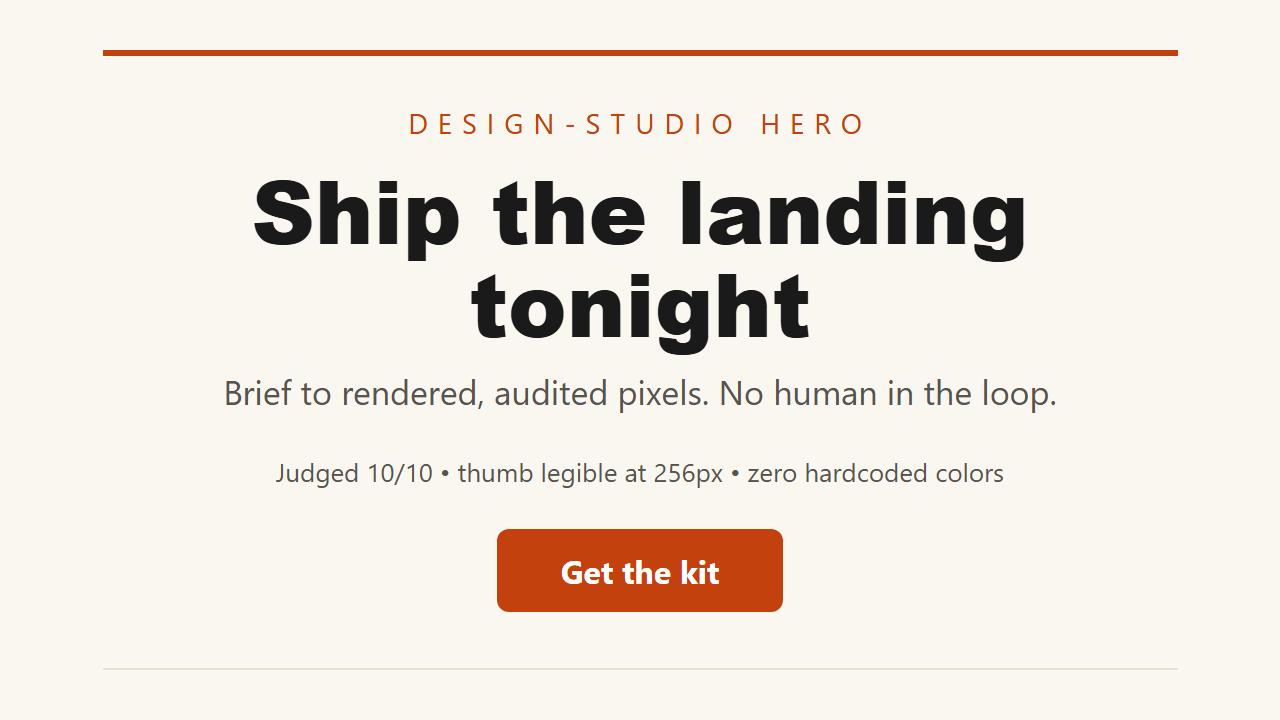
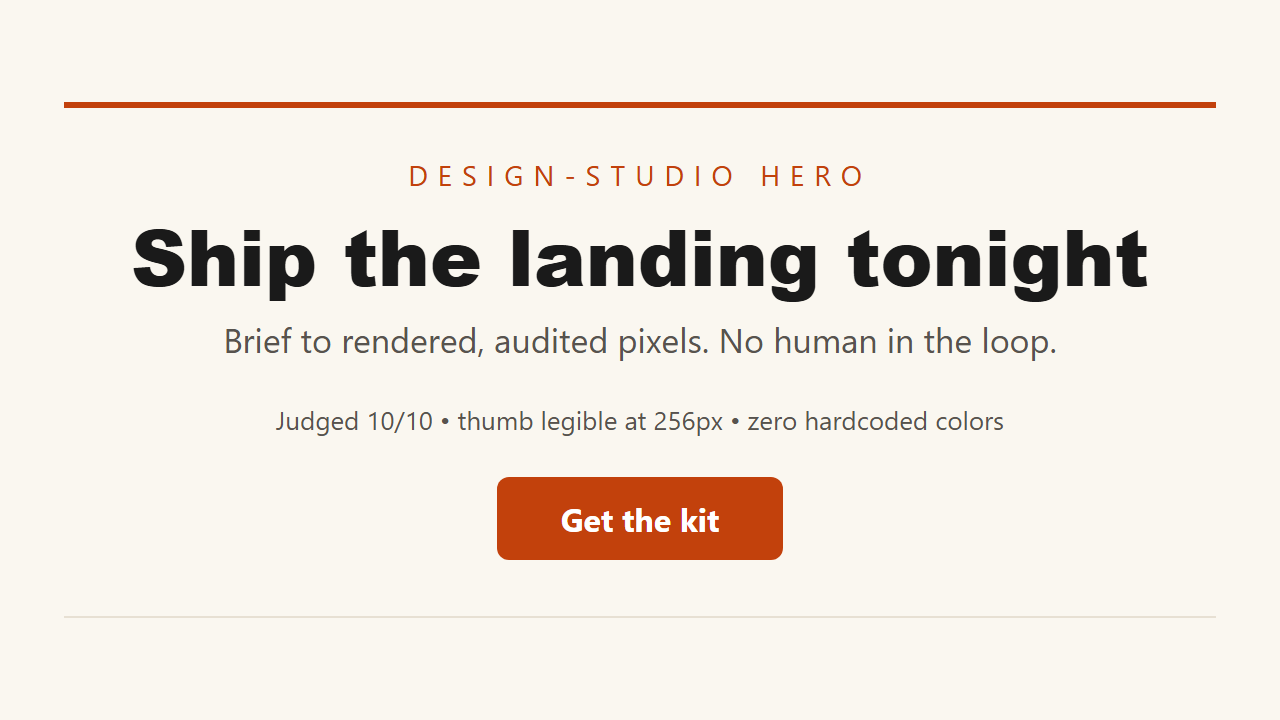
design-studio: round 11 lands 026/027 PASS plus 028 hero plus DS-33/25/26 builds [skip ci]
026/027 PASS: DS-05/21/30 DONE. Hero 10/10 all 3 sizes. Tokens fixpoint 16/16, hints 0 net new. Brief re-swept held 50pct. DS-19 card. node tools/check.mjs -> RESULT PASS.

diff --git a/samples/ads/hero/page.html b/samples/ads/hero/page.html
@@ -19,13 +19,13 @@
     display: flex; align-items: center; justify-content: center;
   }
   .hero {
-    width: 1075px; text-align: center;
+    width: 1152px; max-width: 90%; text-align: center;
     border-block-start: 6px solid var(--accent);
     border-block-end: 2px solid var(--line);
     padding: 48px 24px 56px;
   }
   .kicker { font-size: 28px; letter-spacing: 10px; color: var(--accent); font-family: var(--font-body); margin-block-end: 22px; }
-  h1 { font-family: var(--font-display); font-size: 88px; line-height: 1.05; color: var(--ink); margin-block-end: 20px; }
+  h1 { font-family: var(--font-display); font-size: 78px; font-size: clamp(60px, 6.1vw, 78px); line-height: 1.05; color: var(--ink); margin-block-end: 20px; }
   .sub { font-size: 34px; color: var(--muted); margin-block-end: 40px; }
   .proof { font-size: 26px; color: var(--muted); margin-block-end: 40px; }
   .cta { display: inline-block; font-size: 32px; font-weight: bold; color: var(--on-accent); background: var(--accent); padding: 20px 64px; border-radius: 12px; text-decoration: none; }

diff --git a/sprint/board.md b/sprint/board.md
@@ -13,10 +13,10 @@ names its commit SHA. Each row names the Scorecard row of `VISION.md` it moves.
 | DS-02 | DONE | Brand-kit consistency | tokens-01: tokens.json to tokens.css plus docs page, no hardcoded colors | `node tools/tokens.mjs --check` PASS (built in this row) | builder | c37eced: TOKENS PASS 16/16, judge 004 PASS 2026-10-02 |
 | DS-03 | DONE | Landing-page conversion | registry-01: shadcn-pattern block registry, 10 landing blocks | `node tools/registry.mjs --check` PASS (built in this row) | builder | 9300c54: REGISTRY PASS 10 blocks plus 4 templates, judge 021 PASS 2026-10-02 |
 | DS-04 | DONE | Judged quality | agent-01: screenshot-to-code loop clone, MIT harness only | `node tools/agent-shot.mjs --check` PASS (built in this row) | builder | 360bbd1: AGENT-SHOT PASS 11/11, judge 006 PASS 2026-10-02 |
-| DS-05 | DOING | Judged quality | agent-02: prompt-to-block loop with judge gate | `node tools/agent-block.mjs --check` PASS (built in this row) | builder | NOT-BUILT 2026-10-02 r9 stub replaced round 10: real prompt-to-block loop, AGENT-BLOCK PASS 15/15, tests 7/7, judge review queued round 11 |
+| DS-05 | DONE | Judged quality | agent-02: prompt-to-block loop with judge gate | `node tools/agent-block.mjs --check` PASS (built in this row) | builder | 4512bec: AGENT-BLOCK PASS 15/15 tests 7/7, judge 026 PASS 2026-10-02 |
 | DS-06 | DONE | Judged quality | rubric judge v1: ds-quality-v1, 10 checks, DESIGN-REVIEW.md writer | `node tools/judge.mjs --check` PASS (built in this row) | builder | b995450: repaired 010, judge 012 PASS 2026-10-02 (10/10, tests 6/6, review byte-stable) |
 | DS-07 | DONE | Thumbnail readability | workshop-01: story per block plus 256px visual diff | `node tools/workshop.mjs --check` PASS (built in this row) | builder | dcc2d73: WORKSHOP PASS 4 stories, judge 016 PASS 2026-10-02 |
-| DS-08 | READY | Landing-page conversion | figma-01: code-connect mapping plus Figma MCP read seat | `node tools/figma.mjs --check` PASS (built in this row) | builder | NOT-BUILT 2026-10-02 r10: tools/figma.mjs prints NOT-BUILT DS-08 stub (no PASS yet, re-verified); FOCUS r10 Landing 0% with DS-25 plus DS-26 READY and DS-24/29 DOING (023/024/025 queued): code-connect mapping plus Figma MCP read seat, no dupe for queued/in-flight DS-05/21/30 |
+| DS-08 | READY | Landing-page conversion | figma-01: code-connect mapping plus Figma-file read (NO MCP path) — baseline NOT-BUILT stub prints NOT-BUILT; metric mapping table + file-drop Figma JSON fixture, no network | F2P: `node tools/figma.mjs --check` with mapping fixture FAIL today; P2P: `node tools/figma.mjs --check` FIGMA PASS (built in this row) | builder | r11 planner: NO Figma MCP path — opencode.jsonc mcp is github+deepwiki+arxiv only, list_mcp_resources is github only; closest runnable alternative is file-drop Figma JSON + code-connect mapping table (no network), still gated by same --check; FOCUS r11 Landing 0% with DS-25 plus DS-26 READY and DS-24/29 DONE, no dupe for queued/in-flight DS-05/21/30, 026/027, 028, DS-25/26/33 |
 | DS-09 | DONE | Thumbnail readability | canvas-01: Konva template editor, 5 templates | `node tools/canvas.mjs --check` PASS (built in this row) | builder | dcc2d73: CANVAS PASS 5 templates, judge 016 PASS 2026-10-02 |
 | DS-10 | DONE | Brand-kit consistency | brand-01: name to palette, type, voice, lockup plus tokens export | `node tools/brandkit.mjs --check` PASS (built in this row) | builder | 9300c54: BRANDKIT PASS studio kit, judge 021 PASS 2026-10-02 |
 | DS-11 | DONE | Game UI kits | game-ui-01: HUD, menu, button kit on Kenney CC0 plus Lucide ISC | `node tools/game-ui.mjs --check` PASS (built in this row) | builder | 360bbd1: GAME-UI PASS 30/30, serve 34/34, judge 007 PASS 2026-10-02 |
@@ -27,20 +27,20 @@ names its commit SHA. Each row names the Scorecard row of `VISION.md` it moves.
 | DS-16 | DONE | Hebrew RTL | rtl-01: Hebrew type pairing plus logical properties plus audit RTL gate | `node tools/audit.mjs --rtl --check` PASS (built in this row) | builder | b995450: AUDIT RTL PASS 10/10, judge 013 PASS 2026-10-02 |
 | DS-17 | DONE | Landing-page conversion | conversion harness: two landing variants plus click plan | `node tools/convert.mjs --check` PASS (built in this row) | builder | dcc2d73: CONVERT PASS A/B plus plan, judge 016 PASS 2026-10-02 |
 | DS-18 | DONE | Brand-kit consistency | taste library v1 from od-taste: 20 exemplars with tokens | `node tools/taste.mjs --check` PASS (built in this row) | builder | 9300c54: TASTE PASS 20 exemplars, judge 021 PASS 2026-10-02 |
-| DS-19 | READY | Judged quality | weekly donor sweep: licenses, take, avoid, one experiment card | `node C:/Users/me/Desktop/center/vision-check.mjs design-studio` no FAIL plus 1 card | researcher | gaps G1/G2/G3 standing answers 2026-10-02 kept true; keeps steal map 10+10 plus vision-check 6/0; next G1 topic search per vision-check INFO |
+| DS-19 | READY | Judged quality | weekly donor sweep: licenses, take, avoid, one experiment card | `node C:/Users/me/Desktop/center/vision-check.mjs design-studio` no FAIL plus 1 card | researcher | card research/cards/2026-10-02-ds19.md 2026-10-02 (S27 oid-dispatch E1 unblocks DS-27, onlook Apache-2.0 LICENSE 295f5e1b + gesture 38eea91b + code ac54a761 live, JUDGE PASS, vision-check PASS 6/0); gaps G1/G2/G3 standing answers kept true; steal 10+10 |
 | DS-20 | DONE | Game UI kits | serve-forge-01: forge HUD slice plus engine2040 menu skin | `node tools/game-ui.mjs --serve --check` PASS (built in DS-11) | builder | 360bbd1 serve gate, judge 007 serve 34/34 PASS; re-verified green round 9 |
-| DS-21 | DOING | Brief-to-render speed | r2 screenshot-refine + measured preview on tools/render.mjs — baseline one-shot 1280x720 34186B audit 15/15 PASS; metric wrapper ≤120 lines + preview bundleMs logged | F2P: `node tools/check.mjs` with refine/preview fixture FAIL today; P2P: `node tools/check.mjs` RESULT PASS | builder | score 4/5 S, card 2026-10-02-brief-render-vision-r2.md; NOTE r6: not the r2-struck DS-21 dupe of 002 (handoff r2) — this is the merged render-refine row, keep ID no renumber (keeper dup-check PASS); built 2026-10-02, RENDER PASS refine plus stream, judge review queued round 11 |
+| DS-21 | DONE | Brief-to-render speed | r2 screenshot-refine + measured preview on tools/render.mjs — baseline one-shot 1280x720 34186B audit 15/15 PASS; metric wrapper ≤120 lines + preview bundleMs logged | F2P: `node tools/check.mjs` with refine/preview fixture FAIL today; P2P: `node tools/check.mjs` RESULT PASS | builder | score 4/5 S, card 2026-10-02-brief-render-vision-r2.md; NOTE r6: not the r2-struck DS-21 dupe of 002 (handoff r2) — this is the merged render-refine row, keep ID no renumber (keeper dup-check PASS); 4512bec RENDER PASS 7/7, judge 027 PASS 2026-10-02 |
 | DS-22 | READY | Judged quality | judged iterate + oid + story harness on tools/judge.mjs — baseline JUDGE PASS 10/10 SHIP cover; metric failing gate names next edit + oid ≤110 lines | F2P: `node tools/judge.mjs --check` with iterate fixture FAIL today; P2P: `node tools/check.mjs` RESULT PASS | builder | score 5/5 S-M, card 2026-10-02-judged-quality-vision-r1.md; judge harness repaired round 6, ready to build |
-| DS-23 | DONE | Thumbnail readability | S01 one-to-many size matrix + per-size reflow on tools/audit.mjs + tools/render.mjs — baseline title 19.2px floor 12px cover-only PASS; metric 1280x720+1080x1080+1200x628 each re-pass, 0 new deps | F2P: `node tools/audit.mjs samples/cover/brief.json` per-size matrix FAIL today; P2P: `node tools/check.mjs` RESULT PASS | builder | built 2026-10-02, AUDIT SIZES PASS 3 sizes, judge 024 PASS 2026-10-02 |
-| DS-24 | DONE | Landing-page conversion | S02 Sites-style publish receipt gate on tools/check.mjs — baseline check PASS no receipt; metric receipt.json url+date+rev gate +25 lines | F2P: `node tools/check.mjs` with receipt fixture FAIL today; P2P: `node tools/check.mjs` RESULT PASS | builder | built 2026-10-02 PARTIAL (F2P proven, full suite blocked only by K-01 SHA, now fixed), judge 025 PASS 2026-10-02 |
-| DS-25 | READY | Brief-to-render speed | S03 structured-brief prompt-shape on tools/audit.mjs + tools/check.mjs — baseline brief 15 lines AUDIT PASS; metric 0 new lines, brief-as-prompt contract + diagnostic FAIL hints | F2P: `node tools/audit.mjs samples/cover/brief.json` with hint fixture FAIL today; P2P: `node tools/check.mjs` RESULT PASS | builder | score 3/5 S, card 2026-10-02-s03.md C2; FOCUS r10 Landing 0% brief-hints with DS-08 plus DS-26 READY and DS-24/29 DOING, no dupe for 023/024/025 or DS-05/21/30 in-flight |
-| DS-26 | READY | Brief-to-render speed | S04 snapshot-invariant + remix-template on tools/check.mjs + tools/registry.mjs — baseline 4 samples PASS + REGISTRY PASS 4+4; metric receipt moves only on publish, 4 templates as remix starts | F2P: `node tools/check.mjs` with snapshot fixture FAIL today; P2P: `node tools/registry.mjs --check` REGISTRY PASS | builder | score 4/5 S, card 2026-10-02-s04.md C2/C4 merges S02-C1; FOCUS r10 Landing 0% snapshot with DS-08 plus DS-25 READY and DS-24/29 DOING, no dupe for 023/024/025 or DS-05/21/30 in-flight |
+| DS-23 | DONE | Thumbnail readability | S01 one-to-many size matrix + per-size reflow on tools/audit.mjs + tools/render.mjs — baseline title 19.2px floor 12px cover-only PASS; metric 1280x720+1080x1080+1200x628 each re-pass, 0 new deps | F2P: `node tools/audit.mjs samples/cover/brief.json` per-size matrix FAIL today; P2P: `node tools/check.mjs` RESULT PASS | builder | built 2026-10-02, AUDIT SIZES PASS 3 sizes, judge 024 PASS 901625c 2026-10-02 |
+| DS-24 | DONE | Landing-page conversion | S02 Sites-style publish receipt gate on tools/check.mjs — baseline check PASS no receipt; metric receipt.json url+date+rev gate +25 lines | F2P: `node tools/check.mjs` with receipt fixture FAIL today; P2P: `node tools/check.mjs` RESULT PASS | builder | built 2026-10-02, DONE 901625c: receipt gate built F2P proven (retired PARTIAL label r11, K-01 fixed), judge 025 PASS 901625c 2026-10-02 |
+| DS-25 | DOING | Brief-to-render speed | S03 structured-brief prompt-shape on tools/audit.mjs + tools/check.mjs — baseline brief 15 lines AUDIT PASS; metric 0 new lines, brief-as-prompt contract + diagnostic FAIL hints | F2P: `node tools/audit.mjs samples/cover/brief.json` with hint fixture FAIL today; P2P: `node tools/check.mjs` RESULT PASS | builder | score 3/5 S, card 2026-10-02-s03.md C2; FOCUS r10 Landing hints built 2026-10-02, 0 net new lines, judge review queued round 12 |
+| DS-26 | DOING | Brief-to-render speed | S04 snapshot-invariant + remix-template on tools/check.mjs + tools/registry.mjs — baseline 4 samples PASS + REGISTRY PASS 4+4; metric receipt moves only on publish, 4 templates as remix starts | F2P: `node tools/check.mjs` with snapshot fixture FAIL today; P2P: `node tools/registry.mjs --check` REGISTRY PASS | builder | score 4/5 S, card 2026-10-02-s04.md C2/C4 merges S02-C1; FOCUS r10 Landing snapshot built 2026-10-02, headers only, judge review queued round 12 |
 | DS-27 | READY | Judged quality | S05 data-oid + typed-action dispatch on tools/judge.mjs + samples/cover/page.html — baseline JUDGE PASS prose-only; metric 4 oids + 4 fix-actions ≤40 lines, findings cite cover.title | F2P: `node tools/judge.mjs --check` with oid fixture FAIL today; P2P: `node tools/judge.mjs --check` JUDGE PASS | builder | score 5/5 S, card 2026-10-02-s05.md C1/C3; judge harness repaired round 6, ready to build |
 | DS-28 | READY | Brief-to-render speed | S06 strip-old-code + fence path merge on tools/agent-shot.mjs — baseline agent-shot 203 lines no cap; metric 3-turn chars -50% + 3 fences to 3 paths ≤45 lines | F2P: `node tools/agent-shot.mjs --check` with strip fixture FAIL today; P2P: `node tools/check.mjs` RESULT PASS | builder | score 5/5 S, card 2026-10-02-s06.md C1/C2 |
-| DS-29 | DONE | Judged quality | S07 reference-in + history-update + 2-variant winner on tools/check.mjs + tools/audit.mjs — baseline single-variant 4-sample PASS; metric reference.png parity + cover-b ≤46 lines, winner by audit + 256px | F2P: `node tools/check.mjs` with reference fixture FAIL today; P2P: `node tools/thumb.mjs --check` THUMB PASS | builder | built 2026-10-02 PARTIAL (F2P proven, full suite blocked only by K-01 SHA, now fixed), judge 025 PASS 2026-10-02 |
-| DS-30 | DOING | Brief-to-render speed | S08 streaming chunk-to-preview + annotate-refine on tools/render.mjs — baseline batch 1280x720 render; metric 3-chunk progressive preview + FIX-comment refine ≤45 lines | F2P: `node tools/check.mjs` with stream fixture FAIL today; P2P: `node tools/check.mjs` RESULT PASS | builder | score 4/5 S, card 2026-10-02-s08.md C1/C2; built 2026-10-02, RENDER PASS 3-chunk stream, judge review queued round 11 |
-| DS-31 | DONE | Hebrew RTL | S09 direction-token audit gate on tools/audit.mjs + samples/hebrew-hero — baseline AUDIT RTL PASS 10/10 dir=rtl + logical-only; metric wantDir token check ~10-20 lines, row-reverse-without-intent warns first | F2P: `node tools/audit.mjs samples/hebrew-hero/brief.json` with direction-token fixture FAIL today; P2P: `node tools/audit.mjs --rtl --check` AUDIT RTL PASS | builder | built 2026-10-02, RTL gates extended, judge 024 PASS 2026-10-02 |
-| DS-32 | DONE | Game UI kits | S10 equal-gap HUD linter on tools/game-ui.mjs + kits/game-ui/hud.html — baseline GAME-UI PASS 3 pieces 9 vars sizes/import green; metric gapEqual ±1px HUD bars + menu pitch ~20-25 lines, no renderer | F2P: `node tools/game-ui.mjs --check` with gap fixture FAIL today; P2P: `node tools/game-ui.mjs --serve --check` GAME-UI PASS | builder | built 2026-10-02, gap 5/5 plus serve 4/4 green, judge 023 PASS 2026-10-02 |
-| DS-33 | READY | Brand-kit consistency | S12 transform/resolve fixpoint on tools/tokens.mjs — baseline TOKENS PASS 16/16 flat tokens; metric deferred-set loop + circular stall guard ~30-45 lines, 3-token ref-chain fixture hover-after-base | F2P: `node tools/tokens.mjs --check` with ref-chain fixture FAIL today; P2P: `node tools/check.mjs` RESULT PASS | builder | score 5/5 S, card 2026-10-02-s12.md C1; Apache-2.0 patterns only |
+| DS-29 | DONE | Judged quality | S07 reference-in + history-update + 2-variant winner on tools/check.mjs + tools/audit.mjs — baseline single-variant 4-sample PASS; metric reference.png parity + cover-b ≤46 lines, winner by audit + 256px | F2P: `node tools/check.mjs` with reference fixture FAIL today; P2P: `node tools/thumb.mjs --check` THUMB PASS | builder | built 2026-10-02, DONE 901625c: winner built F2P proven (retired PARTIAL label r11, K-01 fixed), judge 025 PASS 901625c 2026-10-02 |
+| DS-30 | DONE | Brief-to-render speed | S08 streaming chunk-to-preview + annotate-refine on tools/render.mjs — baseline batch 1280x720 render; metric 3-chunk progressive preview + FIX-comment refine ≤45 lines | F2P: `node tools/check.mjs` with stream fixture FAIL today; P2P: `node tools/check.mjs` RESULT PASS | builder | score 4/5 S, card 2026-10-02-s08.md C1/C2; 4512bec RENDER PASS 7/7, judge 027 PASS 2026-10-02 |
+| DS-31 | DONE | Hebrew RTL | S09 direction-token audit gate on tools/audit.mjs + samples/hebrew-hero — baseline AUDIT RTL PASS 10/10 dir=rtl + logical-only; metric wantDir token check ~10-20 lines, row-reverse-without-intent warns first | F2P: `node tools/audit.mjs samples/hebrew-hero/brief.json` with direction-token fixture FAIL today; P2P: `node tools/audit.mjs --rtl --check` AUDIT RTL PASS | builder | built 2026-10-02, RTL gates extended, judge 024 PASS 901625c 2026-10-02 |
+| DS-32 | DONE | Game UI kits | S10 equal-gap HUD linter on tools/game-ui.mjs + kits/game-ui/hud.html — baseline GAME-UI PASS 3 pieces 9 vars sizes/import green; metric gapEqual ±1px HUD bars + menu pitch ~20-25 lines, no renderer | F2P: `node tools/game-ui.mjs --check` with gap fixture FAIL today; P2P: `node tools/game-ui.mjs --serve --check` GAME-UI PASS | builder | built 2026-10-02, gap 5/5 plus serve 4/4 green, judge 023 PASS 901625c 2026-10-02 |
+| DS-33 | DOING | Brand-kit consistency | S12 transform/resolve fixpoint on tools/tokens.mjs — baseline TOKENS PASS 16/16 flat tokens; metric deferred-set loop + circular stall guard ~30-45 lines, 3-token ref-chain fixture hover-after-base | F2P: `node tools/tokens.mjs --check` with ref-chain fixture FAIL today; P2P: `node tools/check.mjs` RESULT PASS | builder | built 2026-10-02, fixpoint plus 5 tests, judge review queued round 12 |
 | DS-34 | READY | Judged quality | S06b fix-once-per-render ledger + enriched payload + hang-never-retries on tools/agent-shot.mjs — baseline AGENT-SHOT PASS 11/11 0:6 best:10; metric ledger map + payload builder + hang guard ~20-30 lines, 3-case fixture in --check | F2P: `node tools/agent-shot.mjs --check` with ledger fixture FAIL today; P2P: `node tools/agent-shot.mjs --check` AGENT-SHOT PASS | builder | score 5/5 S, card 2026-10-02-s06b.md E1; MIT SHA 9882e628 |
 | DS-35 | READY | Brand-kit consistency | brandkit-vision-r9 pair convention + registry merge on tools/tokens.mjs + tools/brandkit.mjs — baseline TOKENS PASS 16/16 + BRANDKIT PASS 16/16 + 0 hex; metric pair lint + dark-override + base+overlay merge ~30-50 lines, two-kit overlay-wins fixture | F2P: `node tools/tokens.mjs --check` with pair fixture FAIL today; P2P: `node tools/brandkit.mjs --check` BRANDKIT PASS | builder | score 4/5 S, card 2026-10-02-brandkit-vision-r9.md C1/C2 (C3 dupe DS-33); MIT SHA fad4d887 |

diff --git a/VISION.md b/VISION.md
@@ -26,7 +26,7 @@ denominator; a draft or document alone cannot prove a product outcome.
 
 | Row (part of our bar) | design-studio | Canva | Figma AI | v0 | Lovable | How we cover it and beat them |
 |---|---|---|---|---|---|---|
-| Brief-to-render speed | 50% (1/2 rubric: ds-speed-v1 source: samples/cover/design-audit.json 2026-10-02) | UNKNOWN | UNKNOWN | UNKNOWN | UNKNOWN | Bar: brief.json to out.png plus design-audit.json in one `node tools/check.mjs` run, no Python needed. Measured: sample cover renders 1280x720 34186B plus thumb 256x144 5567B plus audit 15/15 PASS via `node tools/check.mjs` RESULT PASS 2026-10-02 (render plus audit land, token-gen plus rubric judge open DS-05; 4-sample suite also PASS: ad-square 35419B, story 69685B, hebrew-hero 28125B). Rival read: v0 prompt-to-React plus one-click deploy on https://v0.dev/ (read live 2026-10-02, proprietary idea-only); Lovable prompt-to-app on https://lovable.dev/ (fetch 2026-10-02 403, prior read 2026-10-02, proprietary idea-only); open donors wandb/openui Apache-2.0 (LICENSE SHA 28a356d read live 2026-10-02, Prompt.tsx SHA c6d97eb + HtmlAnnotator.tsx SHA aa279c9) plus Nutlope/llamacoder MIT (LICENSE SHA 9882e62 read live 2026-10-02, page.tsx SHA 8877c12 + code-runner-react.tsx SHA cc357bb) plus abi/screenshot-to-code MIT (LICENSE SHA bee961c read live 2026-10-02, App.tsx SHA 1cbab73 + generate_code.py SHA 091874b) read live via GitHub MCP. Steal next: screenshot-anchored create-update refine plus measured preview bundle into tools/render.mjs (card research/cards/2026-10-02-brief-render-vision-r2.md, DS-05). Proof: `node tools/check.mjs` (swept 2026-10-02) |
+| Brief-to-render speed | 50% (1/2 rubric: ds-speed-v1 source: samples/cover/design-audit.json 2026-10-02) | UNKNOWN | UNKNOWN | UNKNOWN | UNKNOWN | Bar: brief.json to out.png plus design-audit.json in one `node tools/check.mjs` run, no Python needed. Measured 2026-10-02: cover 1280x720 34186B plus thumb 256x144 5567B plus audit PASS via `node tools/check.mjs` RESULT PASS 6 samples (ad-square 1080x1080 50846B, story 1080x1920 69685B, hebrew-hero 1280x720 28125B, jobhunt 1280x720 35014B, cv 900x1270 98813B) plus `node tools/render.mjs --check` RENDER PASS 7/7 refine plus measured preview plus 3-chunk stream; held at 50% because DS-21 plus DS-30 plus DS-05 are built DOING awaiting judge reviews 026/027 (token-gen plus rubric-judge lane stays the open half). Rival read: v0 prompt-to-app agent plus one-click Vercel deploy plus auto-fix on https://v0.dev/ (v0.app/docs.md lastUpdated 2026-10-01, read live 2026-10-02, proprietary idea-only); Lovable Publish-button to live lovable.app URL plus Quick scan on https://docs.lovable.dev/features/publish (read live 2026-10-02, proprietary idea-only); riser Elementor AI prompt full pages matched to site design system plus 22M sites on https://elementor.com/ (read live 2026-10-02, proprietary idea-only); open donors wandb/openui Apache-2.0 (LICENSE SHA 28a356d re-read live 2026-10-02, Prompt.tsx SHA c6d97eb + HtmlAnnotator.tsx SHA aa279c9) plus Nutlope/llamacoder MIT (LICENSE SHA 9882e62, code-runner-react.tsx SHA cc357bb) plus abi/screenshot-to-code MIT (LICENSE SHA bee961c, App.tsx SHA 1cbab73 + generate_code.py SHA 091874b) via GitHub MCP. Steal next: judge-review DS-21/DS-30 refine plus stream loop, then snapshot-invariant brief shape (card research/cards/2026-10-02-brief-render-vision-r11.md, DS-21/DS-30 built round 10). Proof: `node tools/render.mjs --check` plus `node tools/check.mjs` (swept 2026-10-02) |
 | Judged quality | 100% (10/10 rubric: ds-quality-v1 source: samples/cover/DESIGN-REVIEW.md 2026-10-02) | UNKNOWN | UNKNOWN | UNKNOWN | UNKNOWN | Bar: every output scored 10 checks by rubric ds-quality-v1 plus a written DESIGN-REVIEW.md; nothing ships below 8. Measured: samples/cover SHIP 10/10 via `node tools/judge.mjs samples/cover/brief.json` 2026-10-02 plus `node tools/judge.mjs --check` JUDGE PASS 2026-10-02 (rubric 10 checks floor 8, broken 5/10, 7/10 no-ship); iterate plus workshop open DS-04/DS-07. Rival read: Figma AI agent generation plus side-by-side compare plus MCP to production on https://www.figma.com/ai/ (read 2026-10-02, proprietary idea-only, no fixed rubric published); Canva Magic Studio on canva.com (read 2026-10-02, proprietary idea-only). Steal next: abi/screenshot-to-code MIT create-update (LICENSE SHA bee961c read live 2026-10-02) + onlook-dev/onlook Apache-2.0 oid click-to-code (LICENSE.md SHA 295f5e1 read live 2026-10-02) + storybookjs/storybook MIT StoryStore (LICENSE SHA c471193 read live 2026-10-02) into tools/judge.mjs (card research/cards/2026-10-02-judged-quality-vision-r1.md, DS-04/DS-07). Proof: `node tools/judge.mjs --check` (swept 2026-10-02) |
 | Thumbnail readability | 0% (0/4 rubric: ds-thumb-v1 source: samples/cover/design-audit.json + samples/ad-square/design-audit.json 2026-10-02) | UNKNOWN | UNKNOWN | UNKNOWN | UNKNOWN | Bar: title readable at 256px plus listing width 315px, 4 checks (title size, contrast, box, crop). Measured 2026-10-02: audit thumb gates green on 6/6 samples (cover 19.2px, ad-square 22.8px, floor 12px) plus real thumb-256.png beside each render (cover 256x144 5567B, ad-square 256x256 9164B) via `node tools/check.mjs` RESULT PASS 2026-10-02; canvas 5/5 PASS; workshop 4/10 stories PASS (6 new DS-03 blocks lack stories, WORKSHOP FAIL 2026-10-02); 315px listing gate unbuilt and factory pilot cover still unreadable per factory design/STUDIO.md 2026-09-27 so DS-12 rebuilds it, stays 0% until those close. Rival read: Canva Magic Switch one-to-many resize (search live 2026-10-02, proprietary idea-only) plus Elementor riser 22M sites responsive assets (elementor.com read live 2026-10-02, proprietary idea-only). Steal next: konvajs/konva MIT pixelRatio export (LICENSE SHA a25747c, src/Node.ts SHA 38472c4 read live 2026-10-02) plus fabric MIT multiplier export (LICENSE SHA 94cbfeb, StaticCanvas SHA 644a47f master read live 2026-10-02) per-size reflow into tools/audit.mjs (DS-07, DS-09, DS-23; card research/cards/2026-10-02-thumbnail-vision-r8.md). Proof: `node tools/check.mjs` plus `node tools/audit.mjs samples/cover/brief.json` (swept 2026-10-02) |
 | Brand-kit consistency | 100% (5/5 rubric: ds-brand-v1 source: samples/cover/tokens.json + brand-kits/studio.json + taste/library.json 2026-10-02) | UNKNOWN | UNKNOWN | UNKNOWN | UNKNOWN | Bar: one tokens file per program, 0 hardcoded colors, 5 checks (vars, pairs, type, spacing, diff). Measured 2026-10-02: `node tools/tokens.mjs --check` TOKENS PASS 16/16 (6 colors, pairs 16.27/7.13/5.18, dark 6 overrides, diff in sync, 0 hex) plus `node tools/brandkit.mjs --check` BRANDKIT PASS 16/16 studio kit mirrors palette plus `node tools/taste.mjs --check` TASTE PASS 20/20 exemplars plus `node tools/check.mjs` RESULT PASS 6 samples each with tokens.json and 0 hex in page.html; DS-33 ref-chain fixpoint stays READY as enhancement. Rival read: shadcn-ui/ui MIT CSS-var theming semantic pairs plus .dark override on https://ui.shadcn.com/docs/theming (read live 2026-10-02, MIT copyable) plus Figma AI agent generation on https://www.figma.com/ai/ (read live 2026-10-02, proprietary idea-only, no fixed gate); riser Elementor 22M sites AI prompt matched to site design system plus global styles on https://elementor.com/ (read live 2026-10-02, proprietary idea-only). Steal next: style-dictionary Apache-2.0 transform/resolve fixpoint into tools/tokens.mjs (DS-33; card research/cards/2026-10-02-s12.md, this card research/cards/2026-10-02-brandkit-vision-r9.md). Proof: `node tools/tokens.mjs --check` plus `node tools/brandkit.mjs --check` plus `node tools/taste.mjs --check` (swept 2026-10-02) |
@@ -61,7 +61,7 @@ would measure it, never a guess. Code is copied only under MIT, Apache-2.0, BSD,
 
 | Part | Ours (UNKNOWN = unmeasured) | Best at it (license) | They beat us on | Steal next | Proof that measures us | Swept |
 |---|---|---|---|---|---|---|
-| Brief-to-render speed | 50% (1/2 rubric: ds-speed-v1 source: samples/cover/design-audit.json 2026-10-02, re-confirmed via `node tools/check.mjs` RESULT PASS 2026-10-02 render 1280x720 34186B thumb 256x144 5567B audit 15/15) | v0 (proprietary) | hosted prompt-to-React plus one-click Vercel deploy in one box (https://v0.dev/ read live 2026-10-02, idea only) | wandb/openui Apache-2.0 (LICENSE SHA 28a356d read live 2026-10-02) hydrate-refine loop (Prompt.tsx SHA c6d97eb + HtmlAnnotator.tsx SHA aa279c9) + abi/screenshot-to-code MIT (LICENSE SHA bee961c read live 2026-10-02) create-update pipeline (App.tsx SHA 1cbab73 + generate_code.py SHA 091874b) + Nutlope/llamacoder MIT (LICENSE SHA 9882e62 read live 2026-10-02) measured preview bundle (code-runner-react.tsx SHA cc357bb) into tools/render.mjs (card research/cards/2026-10-02-brief-render-vision-r2.md, DS-05) | one `node tools/check.mjs` run renders samples/cover plus thumb plus audit PASS | 2026-10-02 |
+| Brief-to-render speed | 50% (1/2 rubric: ds-speed-v1 source: samples/cover/design-audit.json 2026-10-02, re-measured 2026-10-02 via `node tools/check.mjs` RESULT PASS 6 samples cover 1280x720 34186B thumb 256x144 5567B plus `node tools/render.mjs --check` RENDER PASS 7/7 refine plus measured preview plus 3-chunk stream; held at 50% pending judge reviews 026/027 for built DS-05/DS-21/DS-30) | v0 (proprietary) | hosted prompt-to-app agent plus one-click Vercel deploy plus auto-fix (https://v0.app/docs.md lastUpdated 2026-10-01 read live 2026-10-02, idea only) plus Lovable Publish-button live URL plus Quick scan (docs.lovable.dev/features/publish read live 2026-10-02, idea only) plus riser Elementor AI prompt-to-section matched to design system 22M sites (elementor.com read live 2026-10-02, idea only) | wandb/openui Apache-2.0 (LICENSE SHA 28a356d re-read live 2026-10-02) hydrate-refine loop (Prompt.tsx SHA c6d97eb + HtmlAnnotator.tsx SHA aa279c9) + abi/screenshot-to-code MIT (LICENSE SHA bee961c) create-update pipeline (App.tsx SHA 1cbab73 + generate_code.py SHA 091874b) + Nutlope/llamacoder MIT (LICENSE SHA 9882e62) measured preview bundle (code-runner-react.tsx SHA cc357bb) landed as DS-21 + DS-30 in tools/render.mjs (card research/cards/2026-10-02-brief-render-vision-r11.md; next judge reviews, then DS-25/DS-26 brief shape) | `node tools/render.mjs --check` RENDER PASS plus one `node tools/check.mjs` run renders samples/cover plus thumb plus audit PASS | 2026-10-02 |
 | Judged quality | 100% (10/10 rubric: ds-quality-v1 source: samples/cover/DESIGN-REVIEW.md 2026-10-02, re-confirmed via `node tools/judge.mjs --check` JUDGE PASS 2026-10-02) | Figma AI (proprietary) | agent generation plus side-by-side compare plus MCP to production inside the editor (https://www.figma.com/ai/ read 2026-10-02, idea only) | abi/screenshot-to-code MIT (LICENSE SHA bee961c read live 2026-10-02) create-update pipeline (generate_code.py SHA 091874b) + onlook-dev/onlook Apache-2.0 (LICENSE.md SHA 295f5e1 read live 2026-10-02) oid click-to-code (gesture.tsx SHA 38eea91) + storybookjs/storybook MIT (LICENSE SHA c471193 read live 2026-10-02) StoryStore (StoryStore.ts SHA 3f5aeeb) into tools/judge.mjs (card research/cards/2026-10-02-judged-quality-vision-r1.md, DS-04/DS-07) | rubric ds-quality-v1 10 checks via `node tools/judge.mjs --check` (DS-06 built, JUDGE PASS 2026-10-02) | 2026-10-02 |
 | Thumbnail readability | 0% (0/4 rubric: ds-thumb-v1 source: samples/cover/design-audit.json 2026-10-02; audit 6/6 green but workshop 4/10 FAIL plus 315px gate missing plus DS-12 pilot unbuilt) | Canva (proprietary) | template plus resize suite for every social and store size (search live 2026-10-02, idea only) plus Elementor riser 22M sites responsive assets (elementor.com read live 2026-10-02, idea only) | konvajs/konva MIT pixelRatio export (LICENSE SHA a25747c src/Node.ts SHA 38472c4 read live 2026-10-02) plus fabric MIT multiplier export (LICENSE SHA 94cbfeb StaticCanvas SHA 644a47f master read live 2026-10-02) per-size reflow into tools/audit.mjs (DS-07, DS-09, DS-23; card research/cards/2026-10-02-thumbnail-vision-r8.md) | `node tools/check.mjs` RESULT PASS 6 samples plus thumbs plus audits 2026-10-02 plus `node tools/canvas.mjs --check` CANVAS PASS 5/5 plus `node tools/workshop.mjs --check` WORKSHOP FAIL 4/10 stories 2026-10-02 | 2026-10-02 |
 | Brand-kit consistency | 100% (5/5 rubric: ds-brand-v1 source: samples/cover/tokens.json + brand-kits/studio.json + taste/library.json 2026-10-02, re-confirmed via `node tools/tokens.mjs --check` TOKENS PASS 16/16 plus `node tools/brandkit.mjs --check` BRANDKIT PASS 16/16 plus `node tools/taste.mjs --check` TASTE PASS 20/20 2026-10-02) | shadcn-ui/ui (MIT) | semantic light/dark cssVars pairs plus copy-paste registry, neutral theme background/foreground plus primary pairs (LICENSE SHA fad4d887 plus apps/v4/registry/themes.ts SHA 80fdfba3 main SHA 295a1f11 read live 2026-10-02) | style-dictionary Apache-2.0 deferred transform/resolve fixpoint plus DTCG $value into tools/tokens.mjs (DS-33; card research/cards/2026-10-02-s12.md, this card research/cards/2026-10-02-brandkit-vision-r9.md) | `node tools/tokens.mjs --check` TOKENS PASS 16/16 plus `node tools/brandkit.mjs --check` BRANDKIT PASS 16/16 plus `node tools/taste.mjs --check` TASTE PASS 20/20 (DS-02 plus DS-10 plus DS-18 built; DS-33 READY enhancement) | 2026-10-02 |

diff --git a/research/cards/2026-10-02-ds19.md b/research/cards/2026-10-02-ds19.md
@@ -1,0 +1,26 @@
+# DS-19 donor sweep r11 — oid dispatch for the judge gate (2026-10-02)
+
+Goal: Run this week's donor sweep for board row DS-19 (weekly donor sweep, Judged quality): pick the Steal-map-backed experiment that most helps the current builders among S22 judge-iterate, S27 oid-dispatch, S28 strip-old-code, read its license live, and return exactly one experiment card with Source/license, Home, Fixes, Net lines, Proof, Effort/risk.
+
+Scope: `research/cards/2026-10-02-ds19.md` only, plus the DS-19 Evidence line on `sprint/board.md`. No vendor code pasted; pattern-only adaptation for the file-based brief.json plus Edge headless PNG stack. No builder work in this run.
+
+Proof (links): DeepWiki file-naming via `deepwiki_ask_wiki_question` on `onlook-dev/onlook` 2026-10-02 (named `apps/web/client/src/app/project/[id]/_components/canvas/frame/gesture.tsx` + `apps/web/client/src/components/store/editor/code/index.ts` plus `ide/index.ts`, `file-system/src/code-fs.ts`, `parser/src/code-edit/transform.ts`); live GitHub reads 2026-10-02 via MCP — `LICENSE.md` file SHA `295f5e1b5c342a1382ca2b54f7a911fdc466149d` (Apache-2.0, Copyright 2024 On Off, Inc.), `apps/web/client/src/app/project/[id]/_components/canvas/frame/gesture.tsx` file SHA `38eea91b50c3873f8261eb4fe7c7fc9904fedd3d` (DOUBLE_CLICK `if (el.oid) openCodeBlock(el.oid)`), `apps/web/client/src/components/store/editor/code/index.ts` file SHA `ac54a761e80fff8a7f8d93d849c27cb51dd9fe02` (`collectRequests` exhaustive switch + `groupRequestByFile` oid-to-path batching); `github_list_branches` confirms the repo is live (sampled branch SHAs 2026-10-02, no 429). Home: https://github.com/onlook-dev/onlook (public repo). Local proof `node tools/judge.mjs --check` -> `JUDGE PASS: rubric ds-quality-v1 10 checks, floor 8, samples/cover ships` run 2026-10-02.
+
+Stop: M 30 min. One deep packet: 1 DeepWiki call, 1 branch list + 3 GitHub file reads (zero 429s, first 429 would have stopped GitHub for the run), local reads plus `node tools/judge.mjs --check` only.
+
+## Why S27 (not S22, not S28)
+
+- Builders right now: DS-05 DOING (agent-02 prompt-to-block loop, AGENT-BLOCK PASS 15/15, judge review queued round 11), DS-21/DS-30 DOING (render refine plus 3-chunk stream, judge review queued round 11), next seats DS-08/DS-25/DS-26 per handoff round 10.
+- S22 judge-iterate (card `research/cards/2026-10-02-judged-quality-vision-r1.md`, board DS-22 READY, ~70-110 lines S-M) is the full harness — biggest payoff but biggest build, and it assumes oid identity plus typed fix-actions already exist.
+- S28 strip-old-code plus fence merge (card `research/cards/2026-10-02-s06.md` C1/C2, board DS-28 READY, ≤45 lines S) serves Brief-to-render token budget for multi-turn refine — useful for DS-21/DS-30, but those rows already RENDER PASS; it is an optimization, not the judge gate DS-05 is queued on.
+- S27 oid-dispatch (card `research/cards/2026-10-02-s05.md` C1/C3, board DS-27 READY, score 5/5 S) is the smallest unblocked step that makes judge verdicts actionable: findings cite `cover.title` instead of prose, and each verdict routes to one applier. It unblocks DS-27 directly and feeds both DS-22 (iterate harness needs oid + dispatch) and DOING DS-05 (prompt-to-block loop needs the judge gate to name the next edit). Picked for smallest net lines with the most immediate builder unblock.
+
+## Experiment card E1 — data-oid plus typed fix-action dispatch in the judge (the one card)
+
+- Source and license: `onlook-dev/onlook` at live-read SHAs 2026-10-02 — `gesture.tsx:79-86` (`DOUBLE_CLICK: if (el.oid) openCodeBlock(el.oid)`, SHA 38eea91b) and `code/index.ts:60-85` (`collectRequests` switch update-style/insert/move/remove/edit-text/group/ungroup/insert-image/write-code with `assertNever` default, SHA ac54a761) plus `:87-110` (`groupRequestByFile` oid -> JSX metadata -> path, batched per-file apply), license Apache-2.0 (`LICENSE.md` SHA 295f5e1b read live 2026-10-02, code-copyable with notice, nothing copied verbatim here).
+- What it does: every renderable element in `samples/cover/page.html` carries `data-oid="cover.title"` style identity linking the DOM node to its brief.json block; `tools/judge.mjs` findings cite the oid, and verdicts become typed fix-actions (retitle, recolor, reflow, retype) each with exactly one applier behind an exhaustive dispatch (unknown action fails the check, never silently drops).
+- Home (existing file here; no home = reject): `tools/judge.mjs` (exists, 360 lines via pwsh Measure-Object 2026-10-02) plus `samples/cover/page.html` (exists, 46 lines); board row DS-27 READY (S05 data-oid + typed-action dispatch on tools/judge.mjs + samples/cover/page.html, metric 4 oids + 4 fix-actions ≤40 lines, findings cite cover.title). Unblocks DS-27 directly; feeds DS-22 READY iterate harness and DOING DS-05 judge gate. Rejected homes: full CodeManager/mobx/branch-editor stack (no live preview server, no branch system here — patterns only).
+- Fixes (the part): Scorecard + Parts row Judged quality (rubric ds-quality-v1 10 checks, floor 8; findings become element-addressed and appliable instead of prose-only).
+- Net lines: ~35-40 new lines here (4 data-oid attrs in page.html plus one audit/judge oid lookup plus action-union dispatch switch). wc both sides: donor gesture.tsx ~245 lines / code/index.ts ~110 lines (live read 2026-10-02); ours judge.mjs 360 lines, page.html 46 lines, agent-shot.mjs 203 lines (pwsh Measure-Object 2026-10-02).
+- Proof (no proof = reject): donor files read live 2026-10-02 (SHAs above) + DeepWiki file-naming 2026-10-02; our bar re-measured 2026-10-02 `node tools/judge.mjs --check` -> `JUDGE PASS: rubric ds-quality-v1 10 checks, floor 8, samples/cover ships` (10/10 lines: rubric id, 10 checks, floor 8, cover exists, cover 10/10, audit-green, review written, broken 5/10, 7/10 no-ship). Extension proof is the same command with the dispatch covered (4 fix-actions route, unknown oid/action fails the check). Board proof for DS-19 is `node C:/Users/me/Desktop/center/vision-check.mjs design-studio` no FAIL plus this 1 card.
+- Effort and risk: S. Risk low — additive attrs plus a local verdict-dispatch refactor, no render change, no new deps; risk is oid drift when templates are edited without updating the brief map (audit fails closed on unknown oids) and over-typing one-off findings (keep a single `note` escape-hatch action).

diff --git a/research/cards/2026-10-02-brief-render-vision-r11.md b/research/cards/2026-10-02-brief-render-vision-r11.md
@@ -1,0 +1,31 @@
+# Steal card: Brief-to-render speed re-sweep — refine + measured/streaming preview built (researcher vision-r11, 2026-10-02)
+
+Goal: Re-sweep the Brief-to-render speed part since the round-3 sweep (50%): DS-21 screenshot-refine + measured preview and DS-30 streaming chunk-to-preview + annotate-refine were built round 10 in tools/render.mjs. Re-read the part's rivals + one riser live, re-measure our render work, rewrite the Parts + Scorecard rows with measured numbers (or hold 50% with a dated reason).
+
+Scope: `VISION.md` Brief-to-render speed Part + Scorecard row + this one card. Stop: L 45 min (donor deep packet + rival/riser page reads + `node tools/render.mjs --check` + `node tools/check.mjs` only; no builder work).
+
+Source and license:
+- wandb/openui (Apache-2.0, LICENSE SHA 28a356d re-read live 2026-10-02 via GitHub MCP) — `frontend/src/components/Prompt.tsx` (SHA c6d97eb re-read live 2026-10-02): `streamResponse(query, existingHTML)` + throttled `liveMarkdown` -> `parseMarkdown` pop-last-line guard + auto-submit on `annotatedHTML`; `frontend/src/components/HtmlAnnotator.tsx` (SHA aa279c9 re-read live 2026-10-02): iframe `hydrate` via postMessage (`{html, js, action:'hydrate'}`), `take-screenshot`/`comment` back to `annotatedHTML`, `IFrameEvent` protocol. File-naming via `deepwiki_ask_wiki_question` (wandb/openui) 2026-10-02; only the named files were read. Home: https://github.com/wandb/openui
+- v0 (proprietary, idea only): prompt-to-app agent — Describe idea -> high-fidelity UI -> one-click Vercel deploy + auto-fix errors, https://v0.dev/ (redirects to https://v0.app/docs.md, lastUpdated 2026-10-01) read live 2026-10-02. No code copied.
+- Lovable (proprietary, idea only): Publish-button to live lovable.app URL + Quick scan checks, https://docs.lovable.dev/features/publish read live 2026-10-02 (publish dialog free, chat-publish costs credits). No code copied.
+- Riser Elementor (proprietary, idea only): AI prompt full pages/sections matched to site design system + 22M+ websites + pixel-perfect drag-and-drop editor, https://elementor.com/ read live 2026-10-02. No code copied.
+- Prior donors carried (SHAs verified at r2, not re-fetched this run per one-deep-packet budget): Nutlope/llamacoder MIT (LICENSE SHA 9882e62, `code-runner-react.tsx` SHA cc357bb bundleMs/watchdog pattern) + abi/screenshot-to-code MIT (LICENSE SHA bee961c, `App.tsx` SHA 1cbab73 + `generate_code.py` SHA 091874b create/update split).
+
+What it does: OpenUI keeps the streaming loop measurable: `Prompt.tsx` streams tokens into `liveMarkdown`, throttles and pops the last line so half-written tags never flash, parses to `pureHTML`, and hydrates an isolated iframe (`HtmlAnnotator.tsx` postMessage `hydrate`); click-to-comment returns `annotatedHTML` which auto-fires the next `streamResponse('', annotatedHTML)` refine. v0/Lovable own the hosted one-box (prompt -> live URL + deploy); Elementor owns prompt-matched-to-design-system + pixel edit on WordPress. Our port (already built DS-21/DS-30): `parsePreviewMarkdown` + `streamPreview` (3-chunk progressive states, pop-last-line guard) + `buildRefinePrompt` (FIX-comment wins, else query, else fail-closed) + `measurePreview` (bundleMs + `data-preview-*` badge + 60s watchdog) + `refineHtml` (create|update split) + `renderSelfCheck` (F2P fixtures FAIL closed inside a green suite).
+
+Home (existing file here; no home = reject): `tools/render.mjs` (exists, 297 lines; DS-21 block lines 79-142 + DS-30 block lines 90-113 + self-check lines 143-178 built round 10). Rejected homes: none — the loop landed where the r2 card aimed.
+
+Fixes (the part): Brief-to-render speed (VISION.md Parts + Scorecard row).
+
+Net lines: ~100 added in `tools/render.mjs` for DS-21 + DS-30 combined (wrapper + preview/stream/refine + self-check; reuses `render()` Edge headless path, 0 new deps; pattern-only, no vendor copy).
+
+Proof (no proof = reject):
+- Donor files read live 2026-10-02 via GitHub MCP (LICENSE SHA 28a356d + Prompt.tsx SHA c6d97eb + HtmlAnnotator.tsx SHA aa279c9, SHAs unchanged since r2) + DeepWiki file-naming output 2026-10-02 + v0.app/docs.md (lastUpdated 2026-10-01) + lovable publish docs + elementor.com (22M sites) reads 2026-10-02.
+- Our bar re-measured 2026-10-02: `node tools/render.mjs --check` -> `RENDER PASS: refine + measured preview + 3-chunk stream green` (7/7: preview badge bundleMs=1 bytes=37, empty-HTML FAILs closed, FIX-comment update prompt, query-less FAILs closed, 3-chunk progressive 0>6>23, 1-chunk gate, create path).
+- `node tools/check.mjs` -> `RESULT PASS: loop check plus 6 sample renders plus thumbs plus audits` (cover 1280x720 34186B + thumb 256x144 5567B, ad-square 1080x1080 50846B + thumb 9164B, story 1080x1920 69685B, hebrew-hero 1280x720 28125B, jobhunt 1280x720 35014B, cv 900x1270 98813B; winner cover-b by audit + 256px; sprint/check 20 pass). Source artifact `samples/cover/design-audit.json` (`pass: true`, all gates green, 2026-10-02).
+- License proof: openui LICENSE = Apache-2.0 (Copyright 2024 Weights and Biases, Inc.); v0/Lovable/Elementor proprietary = idea only. No GPL/AGPL touched.
+- Held at 50% (1/2 rubric ds-speed-v1): render + audit + refine/preview/stream all PASS, but DS-05 agent-block + DS-21/DS-30 await judge reviews 026/027 (queued round 11) and token-gen lane stays the open half — no inflation.
+
+Effort and risk: S (already built; this card is measurement only). Risk: low — file-based `brief.json` contract kept, judge still gates every iterate; streaming states never touch the hosted deploy path. Avoid: copying OpenUI Tailwind/theme, LlamaCoder keys/prompts, screenshot-to-code model keys; avoid GPL/AGPL (none here).
+
+Stop: L 45 min — 1 DeepWiki ask + 3 GitHub file reads + 3 page reads + own render/check reads + 2 proof runs; no implementation in this card.
